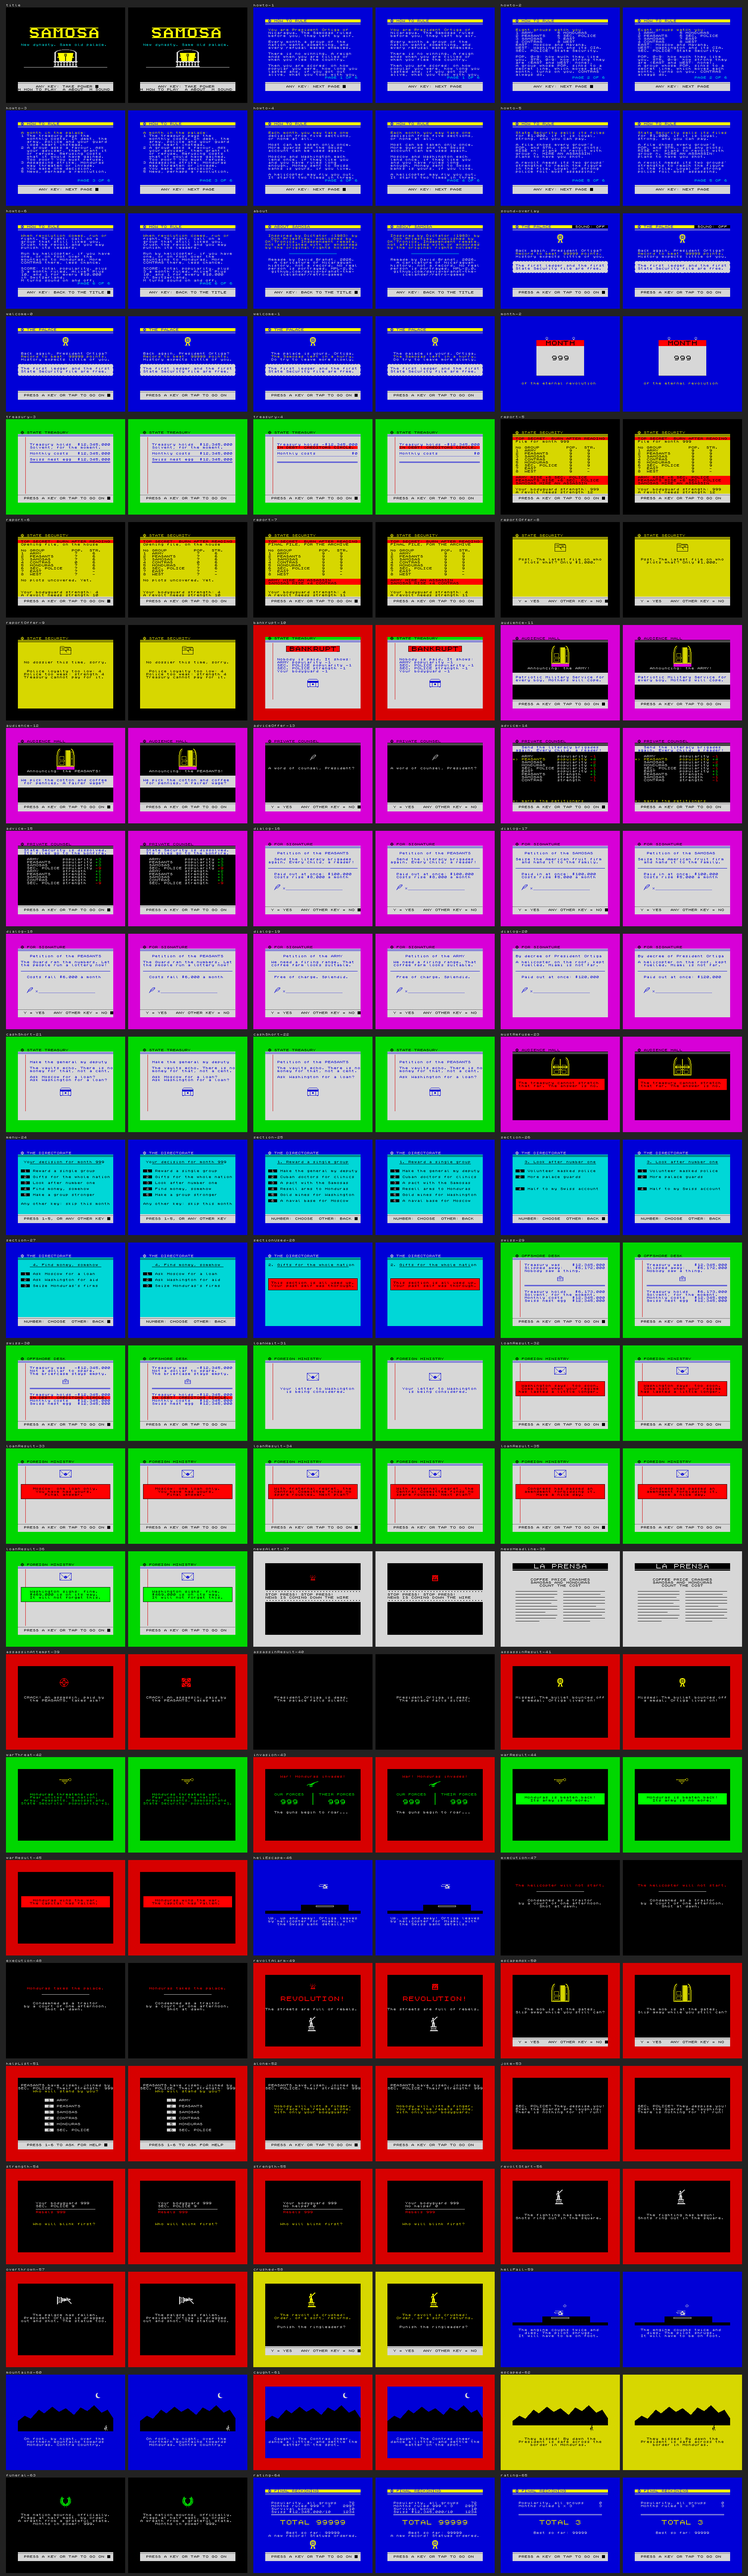
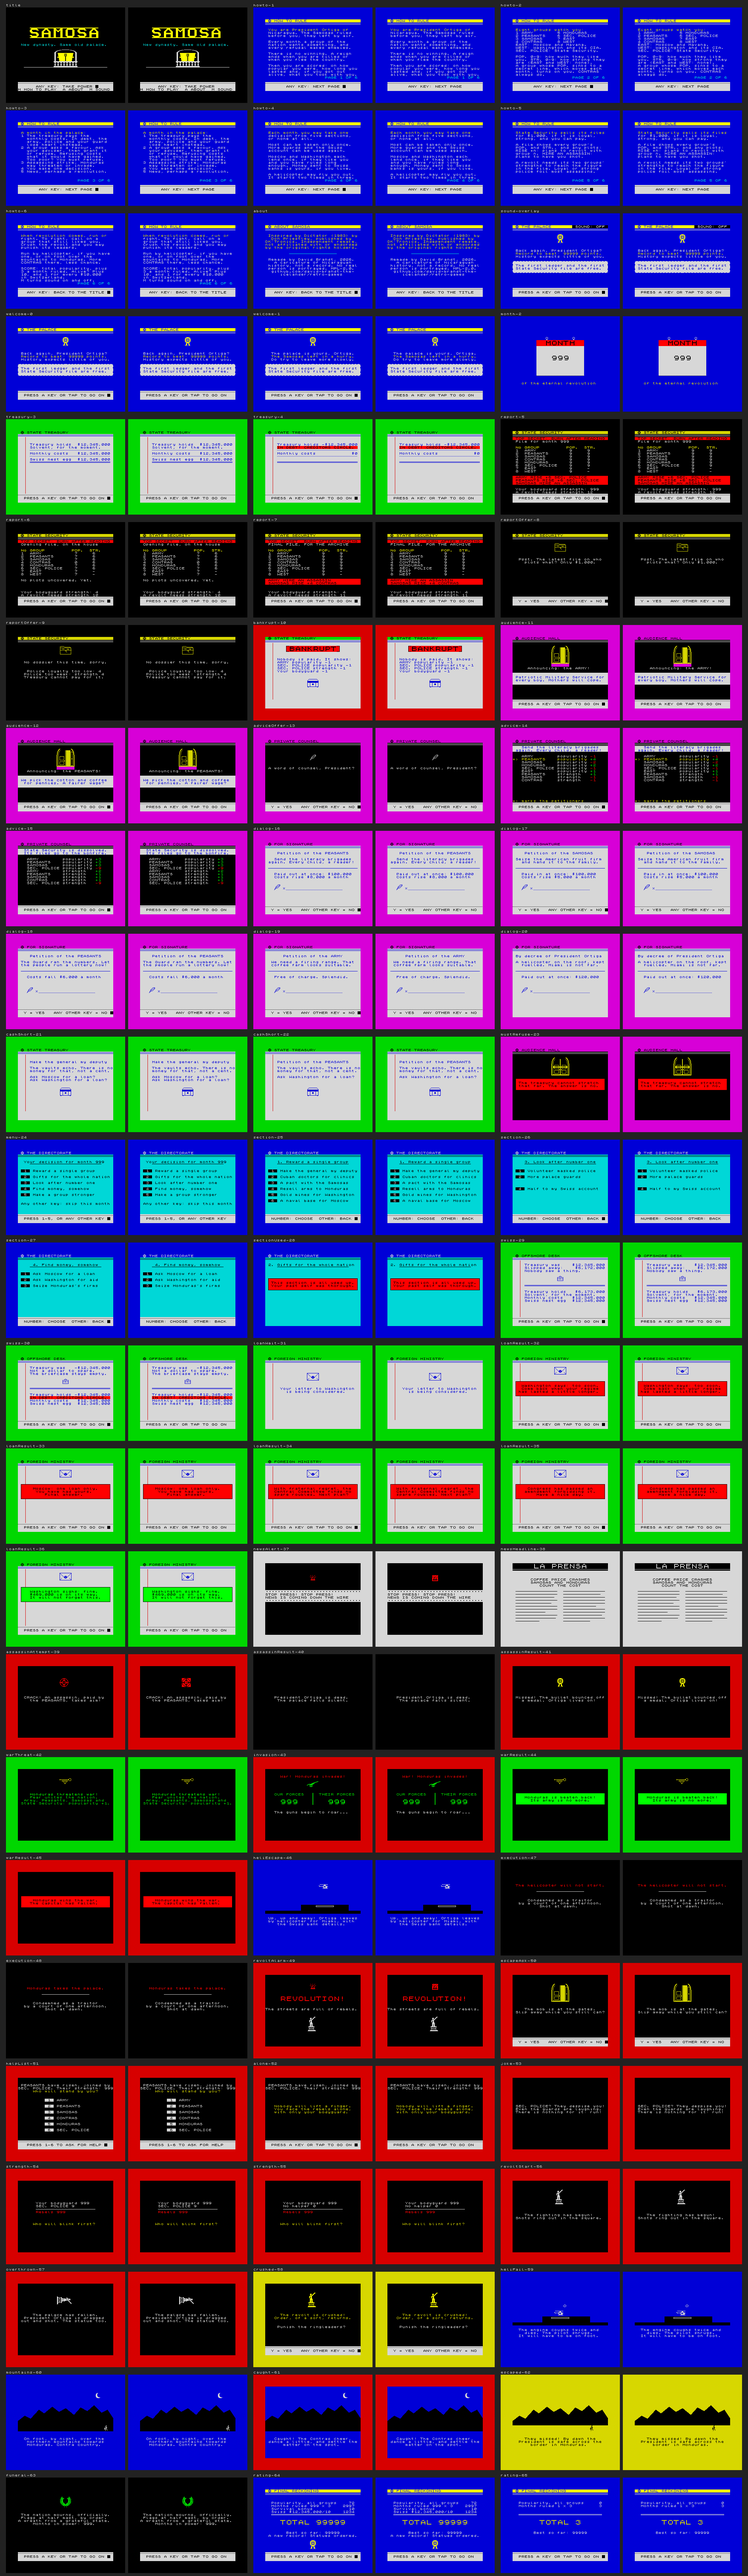
Samosa: dark State Security screens
The report and the report offer now use white type on black paper,
with a manila letterhead tab, a BRIGHT yellow table heading and the red
classified and plot bars. There are still no bar charts and nothing
flashes, so the screen stays unlike the original's (art bible
distinctiveness table updated).

Owner request; UI-DESIGN, ART-BIBLE and the GDD decision log updated.
The contact sheet is re-rendered, and all 129 tests pass.

Claude-Session: https://claude.ai/code/session_015ZiMTLLHJwUXy8vhpku8Pa

diff --git a/games/dictator/src/ui/screens.ts b/games/dictator/src/ui/screens.ts
@@ -53,7 +53,7 @@ const timed = (ms: number, speech: string, motifs: MotifId[] = [], assertive = f
 
 const PALACE_BAND = at(BLUE, YELLOW, { bright: true });
 const LEDGER_BAND = at(BLACK, GREEN);
-const DOSSIER_BAND = at(YELLOW, BLACK);
+const DOSSIER_BAND = at(BLACK, YELLOW); // a manila tab on the dark file
 const AUDIENCE_BAND = at(BLACK, MAGENTA);
 const CABINET_BAND = at(WHITE, BLUE);
 
@@ -68,7 +68,7 @@ function ledgerPage(p: Painter, office: string, border = GREEN): void {
 }
 
 function dossier(p: Painter): void {
-  p.page(BLACK, YELLOW, BLACK).letterhead(T.OFFICE.security, DOSSIER_BAND, ART.SEAL);
+  p.page(WHITE, BLACK, BLACK).letterhead(T.OFFICE.security, DOSSIER_BAND, ART.SEAL);
 }
 
 function audienceHall(p: Painter, office: string): void {
@@ -184,7 +184,7 @@ const DRAW: { [K in Screen["kind"]]: Draw<K> } = {
     p.bar(2, 0, 31, T.REPORT.classified, 1, RED);
     const sub = s.variant === "first" ? T.REPORT.first : s.variant === "final" ? T.REPORT.final : T.REPORT.bought(s.month);
     p.text(3, 1, 31, sub);
-    p.text(5, 1, 30, T.REPORT.heading);
+    p.text(5, 1, 30, T.REPORT.heading, at(YELLOW, BLACK, { bright: true }));
     for (let g = 0; g < 8; g++) {
       const row = 6 + g;
       p.print(1, row, String(g + 1));
@@ -217,7 +217,7 @@ const DRAW: { [K in Screen["kind"]]: Draw<K> } = {
 
   reportOffer(p, s) {
     dossier(p);
-    p.icon(14, 3, ART.FOLDER, at(BLACK, YELLOW));
+    p.icon(14, 3, ART.FOLDER, at(YELLOW, BLACK));
     const price = T.money(1);
     if (s.available) {
       p.text(8, 1, 30, T.OFFER.ask[0], undefined, "centre");

diff --git a/games/dictator/docs/UI-DESIGN.md b/games/dictator/docs/UI-DESIGN.md
@@ -296,20 +296,20 @@ One entry per screen in GDD §7 order. Cells are given as rows × columns, 0-bas
 ### report
 
 - **Wireframe:** WIREFRAMES.md § report (GDD #8; engine kind: report (flag: first / bought / final))
-- **Colour family:** Dossier · **Border:** black · **Page (CLS):** black ink on yellow paper, BRIGHT off
+- **Colour family:** Dossier · **Border:** black · **Page (CLS):** white ink on black paper, BRIGHT off (the dark file; owner decision 2026-11-06)
 
 | Region | Cells | Ink | Paper | BRIGHT | FLASH | Align | Content (final text, or icon id) |
 |---|---|---|---|---|---|---|---|
-| s | row 0 × col 1 | yellow | black | no | no | left | icon `seal` |
-| L | row 0 × cols 3–18 | yellow | black | no | no | left | `"STATE SECURITY"` |
-| T | rows 2–3 × cols 0–31 | black | yellow | no | no | left | *row 2 (red bar):* `"TOP SECRET: BURN AFTER READING"`<br>*L2 bought:* `"File for month {month}"`<br>*L2 first:* `"Opening file, on the house"`<br>*L2 final:* `"FINAL FILE, FOR THE ARCHIVE"`<br>*Note:* row 2 is a bar: black ink on BRIGHT red paper across cols 0–31, text from col 1; row 3 black on yellow from col 1 |
-| H | row 5 × cols 1–30 | black | yellow | no | no | left | `"No GROUP         POP.  STR."`<br>'No' at cols 1–2, 'GROUP' at cols 4–8, 'POP.' at cols 18–21, 'STR.' at cols 24–27 |
-| G | rows 6–13 × cols 1–30 | black | yellow | no | no | left | columns: group number at col 1; label at cols 4–14 (left); popularity digit at col 19; strength digit at col 25 ('-' for groups 7 and 8)<br>*example, row 6:* `"1  ARMY           7     6"`<br>*example, row 11:* `"6  SEC. POLICE    9     9"`<br>*example, row 13:* `"8  WEST           7     -"` |
-| P | rows 15–17 × cols 0–31 | black | red | yes | no | left | *revolution:* `"{faction} RISE +{allyNo} {ally}"`<br>*assassination:* `"{faction} HIRE AN ASSASSIN"`<br>*none (black on yellow):* `"No plots uncovered. Yet."` |
-| O | rows 19–20 × cols 1–30 | black | yellow | no | no | left | *row 19:* `"Your bodyguard strength: {pstr}"`<br>*row 20:* `"A revolt needs strength {revstr}"` |
+| s | row 0 × col 1 | white | black | no | no | left | icon `seal` |
+| L | row 0 × cols 3–18 | white | black | no | no | left | `"STATE SECURITY"` |
+| T | rows 2–3 × cols 0–31 | white | black | no | no | left | *row 2 (red bar):* `"TOP SECRET: BURN AFTER READING"`<br>*L2 bought:* `"File for month {month}"`<br>*L2 first:* `"Opening file, on the house"`<br>*L2 final:* `"FINAL FILE, FOR THE ARCHIVE"`<br>*Note:* row 2 is a bar: black ink on BRIGHT red paper across cols 0–31, text from col 1; row 3 white on black from col 1 |
+| H | row 5 × cols 1–30 | yellow | black | yes | no | left | `"No GROUP         POP.  STR."`<br>'No' at cols 1–2, 'GROUP' at cols 4–8, 'POP.' at cols 18–21, 'STR.' at cols 24–27 |
+| G | rows 6–13 × cols 1–30 | white | black | no | no | left | columns: group number at col 1; label at cols 4–14 (left); popularity digit at col 19; strength digit at col 25 ('-' for groups 7 and 8)<br>*example, row 6:* `"1  ARMY           7     6"`<br>*example, row 11:* `"6  SEC. POLICE    9     9"`<br>*example, row 13:* `"8  WEST           7     -"` |
+| P | rows 15–17 × cols 0–31 | black | red | yes | no | left | *revolution:* `"{faction} RISE +{allyNo} {ally}"`<br>*assassination:* `"{faction} HIRE AN ASSASSIN"`<br>*none (white on black):* `"No plots uncovered. Yet."` |
+| O | rows 19–20 × cols 1–30 | white | black | no | no | left | *row 19:* `"Your bodyguard strength: {pstr}"`<br>*row 20:* `"A revolt needs strength {revstr}"` |
 | K | rows 21–23 × cols 0–31 | black | white | no | no | centre | `"PRESS A KEY OR TAP TO GO ON"` |
 
-- **Decoration (`#`):** row 0 × col 0 and row 0 × col 2: letterhead band: black paper; row 0 × cols 19–31: letterhead band: black paper (cols 20–31 also carry the sound overlay when shown); row 1 × cols 0–31: double rule: pixel rows 2 and 5 of row 1, all 256 pixels, in the page ink.
+- **Decoration (`#`):** row 0 × col 0 and row 0 × col 2: letterhead band: yellow paper (a manila tab); row 0 × cols 19–31: letterhead band: yellow paper (a manila tab) (cols 20–31 also carry the sound overlay when shown); row 1 × cols 0–31: double rule: pixel rows 2 and 5 of row 1, all 256 pixels, in the page ink.
 - **States:** Plot lines: each is a bar (black ink on BRIGHT red paper across cols 0–31, text from col 1) and carries the words RISE or ASSASSIN, so colour is never the only signal. Nothing on this screen flashes. The first report always shows the no-plots line. A strength of 7 or 8 (EAST, WEST) shows '-'.
 - **Input:** Any key except M continues. **Keypad offers:** [NEXT].
 - **Timing:** Waits for a key.
@@ -319,19 +319,19 @@ One entry per screen in GDD §7 order. Cells are given as rows × columns, 0-bas
 ### report-offer
 
 - **Wireframe:** WIREFRAMES.md § report-offer (GDD #9; engine kind: reportOffer (available / unavailable))
-- **Colour family:** Dossier · **Border:** black · **Page (CLS):** black ink on yellow paper, BRIGHT off
+- **Colour family:** Dossier · **Border:** black · **Page (CLS):** white ink on black paper, BRIGHT off (the dark file; owner decision 2026-11-06)
 
 | Region | Cells | Ink | Paper | BRIGHT | FLASH | Align | Content (final text, or icon id) |
 |---|---|---|---|---|---|---|---|
-| s | row 0 × col 1 | yellow | black | no | no | left | icon `seal` |
-| L | row 0 × cols 3–18 | yellow | black | no | no | left | `"STATE SECURITY"` |
-| F | rows 3–5 × cols 14–17 | black | yellow | no | no | left | icon `folder` |
-| Q | rows 8–9 × cols 1–30 | black | yellow | no | no | centre | *available L1:* `"Psst. The latest file on who"`<br>*available L2:* `"plots what? Only {price}."`<br>*unavailable L1:* `"No dossier this time, sorry."` |
-| R | rows 11–13 × cols 1–30 | black | yellow | no | no | centre | *police popularity:* `"Police loyalty too low: {pop}"`<br>*police strength:* `"Police too weak: strength {str}"`<br>*treasury:* `"Treasury cannot pay for it."` |
+| s | row 0 × col 1 | white | black | no | no | left | icon `seal` |
+| L | row 0 × cols 3–18 | white | black | no | no | left | `"STATE SECURITY"` |
+| F | rows 3–5 × cols 14–17 | white | black | no | no | left | icon `folder` |
+| Q | rows 8–9 × cols 1–30 | white | black | no | no | centre | *available L1:* `"Psst. The latest file on who"`<br>*available L2:* `"plots what? Only {price}."`<br>*unavailable L1:* `"No dossier this time, sorry."` |
+| R | rows 11–13 × cols 1–30 | white | black | no | no | centre | *police popularity:* `"Police loyalty too low: {pop}"`<br>*police strength:* `"Police too weak: strength {str}"`<br>*treasury:* `"Treasury cannot pay for it."` |
 | K | rows 21–23 × cols 0–31 | black | white | no | no | centre | *available only:* `"Y = YES   ANY OTHER KEY = NO"` |
 
-- **Decoration (`#`):** row 0 × col 0 and row 0 × col 2: letterhead band: black paper; row 0 × cols 19–31: letterhead band: black paper (cols 20–31 also carry the sound overlay when shown); row 1 × cols 0–31: double rule: pixel rows 2 and 5 of row 1, all 256 pixels, in the page ink.
-- **States:** *Available*: Q shows the offer, R is empty, the footer asks yes/no. *Unavailable*: Q row 8 shows the shrug, R lists only the failing reasons with no gaps between them, and there is no footer (rows 21–23 stay yellow page).
+- **Decoration (`#`):** row 0 × col 0 and row 0 × col 2: letterhead band: yellow paper (a manila tab); row 0 × cols 19–31: letterhead band: yellow paper (a manila tab) (cols 20–31 also carry the sound overlay when shown); row 1 × cols 0–31: double rule: pixel rows 2 and 5 of row 1, all 256 pixels, in the page ink.
+- **States:** *Available*: Q shows the offer, R is empty, the footer asks yes/no. *Unavailable*: Q row 8 shows the shrug, R lists only the failing reasons with no gaps between them, and there is no footer (rows 21–23 stay black page).
 - **Input:** Available: Y or y buys (to `report`); any other key except M skips. Unavailable: no key is read. **Keypad offers:** Available: [YES] sends y · [NO] sends n. Unavailable: none.
 - **Timing:** Available: waits for a key. Unavailable: as long as `report-none` (2.5 s); keys do not shorten it.
 - **Sound:** Available: none. Unavailable: `report-none`.

diff --git a/games/dictator/docs/ART-BIBLE.md b/games/dictator/docs/ART-BIBLE.md
@@ -8,7 +8,7 @@ Written by the designer from `RULES.md`, `GDD.md` and the owner's research brief
 
 **The palace runs on paper.** President Ortiga has inherited the palace the Samosa family fled by air, and every ordinary screen of *Samosa* is a document from one of its offices. Each comes with a letterhead and a small seal, and ends in a perforated counterfoil at the foot of the page. The offices' documents:
 - a blue-inked ledger with a red margin (the State Treasury)
-- a manila State Security file
+- a dark State Security file under a manila tab
 - a white petition card on a velvet-black wall (the audience hall)
 - a cyan agenda (the Directorate)
 - a teleprinter tape and a *La Prensa* front page
@@ -63,7 +63,7 @@ Each screen group has one page scheme, one accent and one border. Text pairs are
 | **Palace** | howto, about, welcome, rating | blue | white | letterhead band BRIGHT yellow paper / BRIGHT blue ink; yellow for headings and key numbers; cyan for page numbers | blue |
 | **Calendar** | month | blue (the wall) | yellow | a white calendar page with a BRIGHT red strip, black ink | blue |
 | **Ledger** | treasury, bankrupt, cash-short, swiss, loan-wait, loan-result | white | blue (ink pen) | letterhead band green paper / black ink; a red margin line; red bars and stamp boxes (black on BRIGHT red), green box for good news (black on BRIGHT green) | green (bankrupt: red) |
-| **Dossier** | report, report-offer | yellow (manila) | black | letterhead band black paper / yellow ink; red bars for the classified line and the plots | black |
+| **Dossier** | report, report-offer | black (the dark file; owner decision 2026-11-06) | white; the table heading BRIGHT yellow | letterhead band yellow paper / black ink (a manila tab); red bars for the classified line and the plots | black |
 | **Audience** | audience, advice-offer, advice, dialog, must-refuse | black (velvet); dialog is a white sheet with blue ink | white | letterhead band magenta paper / black ink; the petition card white paper / blue ink; the brass door in yellow | magenta |
 | **Cabinet** | menu, section, section-used | cyan | black | letterhead band blue paper / white ink; number boxes white on black | blue |
 | **Press** | news-alert, news-headline | alert black, headline white | headline black, alert white | the white teleprinter tape; the masthead white on black; the BRIGHT red alarm lamp | white |
@@ -1266,7 +1266,7 @@ The left column describes, in words only, the recognisable elements of the origi
 | Original element (described, not reproduced) | How ours differs |
 |---|---|
 | The audience screen showed a **row of large faction emblems** across the screen, with the requesting faction picked out | **No emblems at all**, for any faction, anywhere. The audience is a single **palace door** centred on a black wall, with a magenta letterhead. The usher's one-line announcement names the faction, and the request sits on a white **petition card**. Factions are only ever named in words. |
-| The intelligence report was **columns of faction names with horizontal bar charts** (one colour for popularity, another for strength). Plotters' names flashed, and a flashing letter marked assassins. | A **manila dossier**: yellow paper and black type, with a letterhead and a red classified bar. A plain typed table gives each group's number, name and **two digits** (no bars, no meters, no colour coding). Plots are listed **below** the table as sentences on red bars (`RISE`, `HIRE AN ASSASSIN`). **Nothing on the report flashes**, and no letter marks anything. |
+| The intelligence report was **columns of faction names with horizontal bar charts** (one colour for popularity, another for strength). Plotters' names flashed, and a flashing letter marked assassins. | A **dark State Security file**: white type on black paper under a manila letterhead tab and a red classified bar. A plain typed table gives each group's number, name and **two digits** (no bars, no meters, no colour coding). Plots are listed **below** the table as sentences on red bars (`RISE`, `HIRE AN ASSASSIN`). **Nothing on the report flashes**, and no letter marks anything. |
 | Many screens had **tiled, repeating-pattern backgrounds** filling the paper | **Every screen has plain, solid paper.** Decoration is a few single lines (rules, a perforation, a margin), outlines and one silhouette. No pattern fills any screen. |
 | The title was **the title word repeated as wallpaper, flashing**, with a **national flag** | The name appears **once**, still, in brass block letters over an empty balcony at night. **No flag** of any kind appears in the game. |
 | Prompts sat in a **column down one side** | Every prompt sits in **one place**, the white counterfoil across the **bottom** of the page. Choices (menu, section, help list) are numbered lists in the middle of the page. |

diff --git a/games/dictator/docs/GDD.md b/games/dictator/docs/GDD.md
@@ -424,6 +424,7 @@ All melodies are new and written for this game; effects are generic beeper sound
 | 2026-11-06 | Real parties and organisations are named; real people are not. Events are built on Nicaraguan history, caricatured. The ruling families are the puns Ortiga and Samosa; the player is President Ortiga; the Landowners faction becomes the Samosa family (rules unchanged). | Owner |
 | 2026-11-06 | No "wait for a key on timed screens" setting. | Owner |
 | 2026-11-06 | Credits name the remake's author as David Brandt. Headlines run under the real masthead *La Prensa*. | Owner |
+| 2026-11-06 | State Security's screens (report, report offer) are dark: white type on black paper. | Owner |
 
 ## 15. Decisions (all closed)
 
